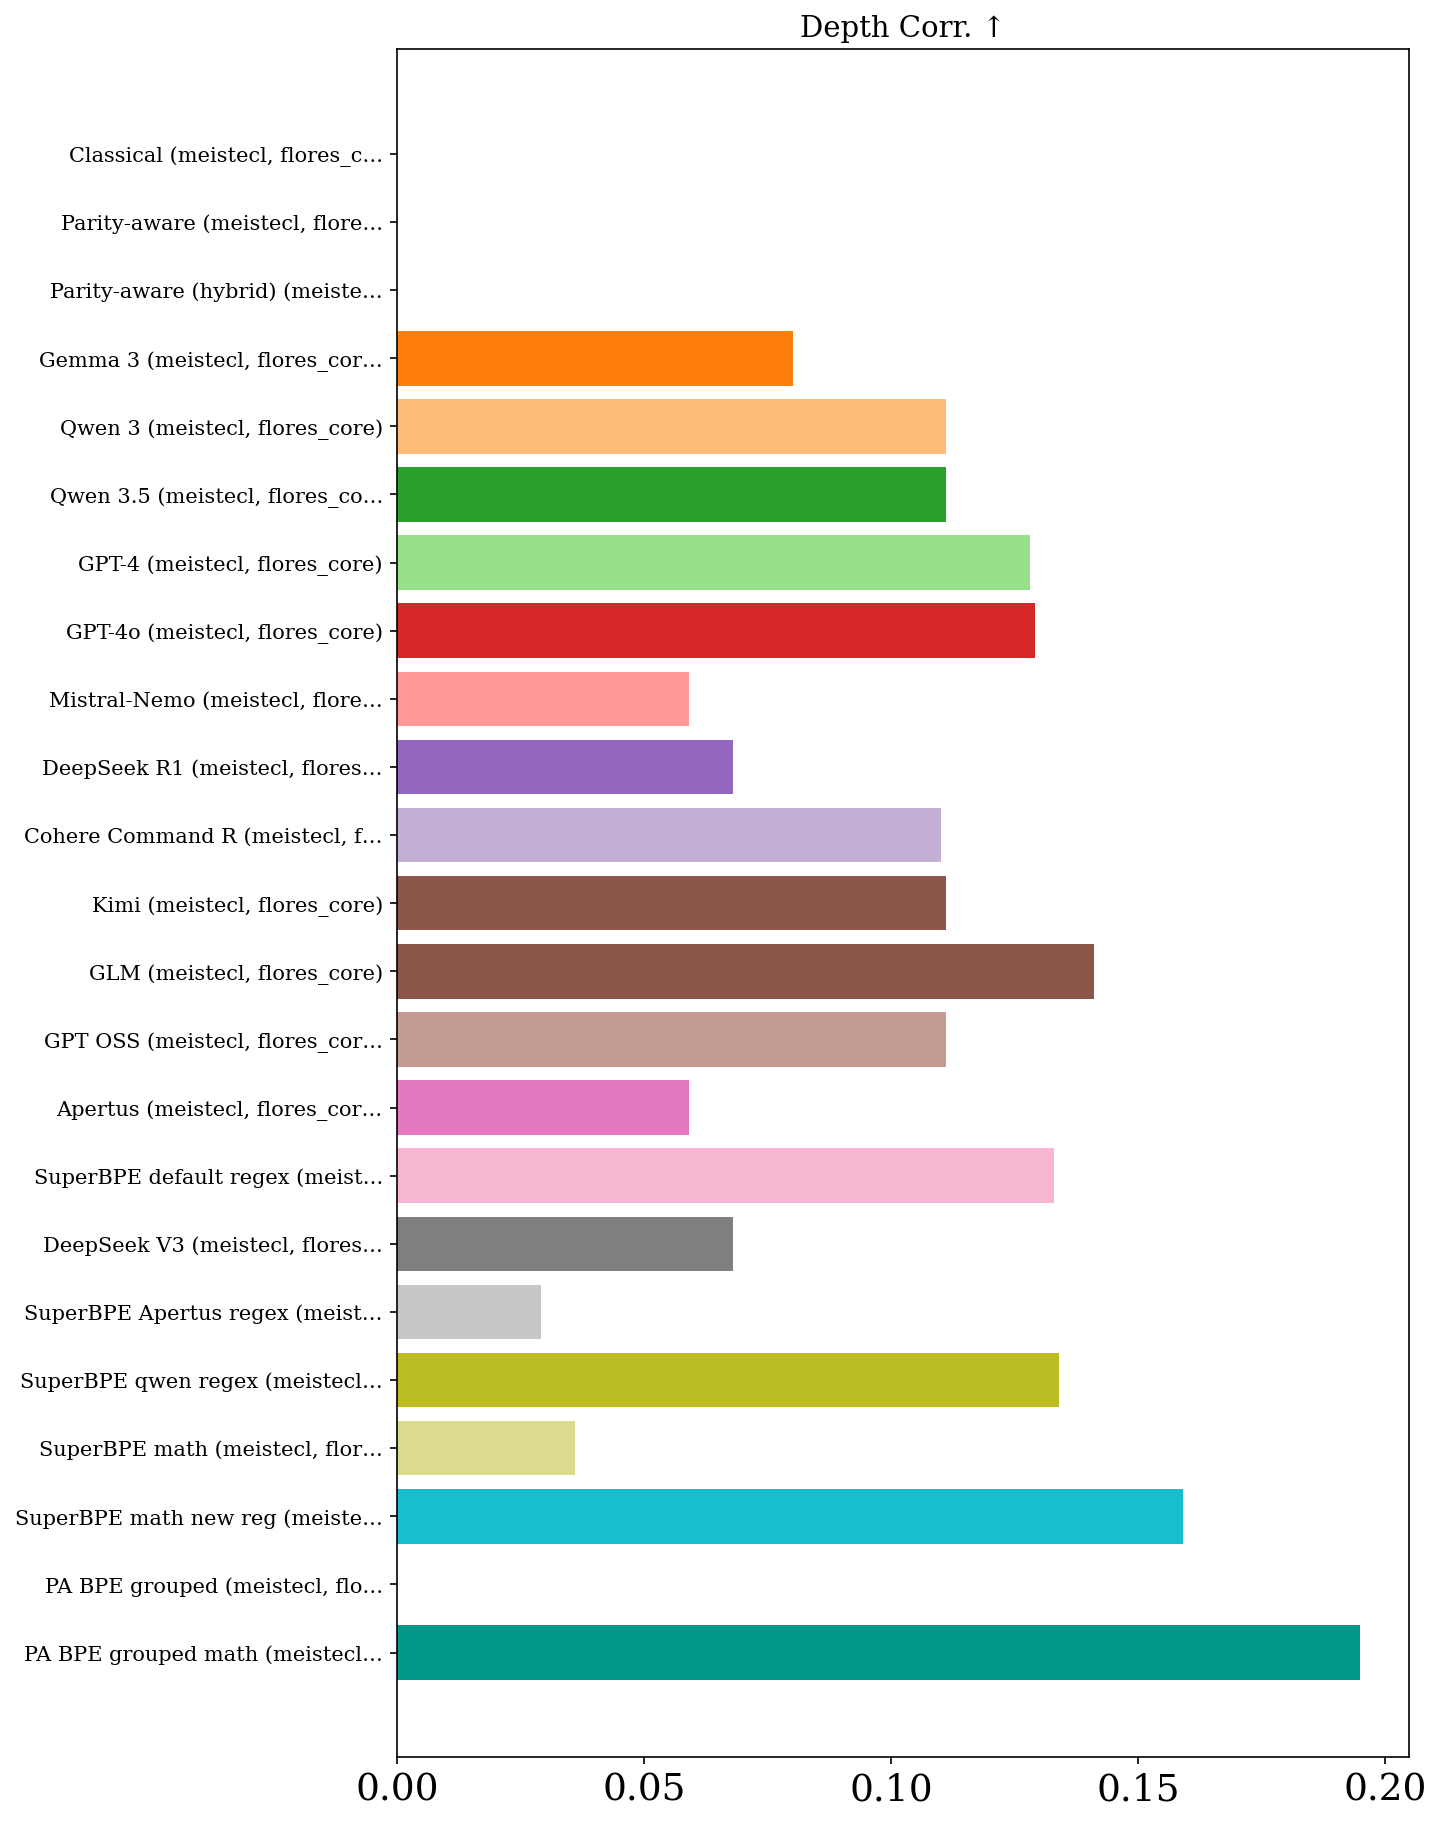
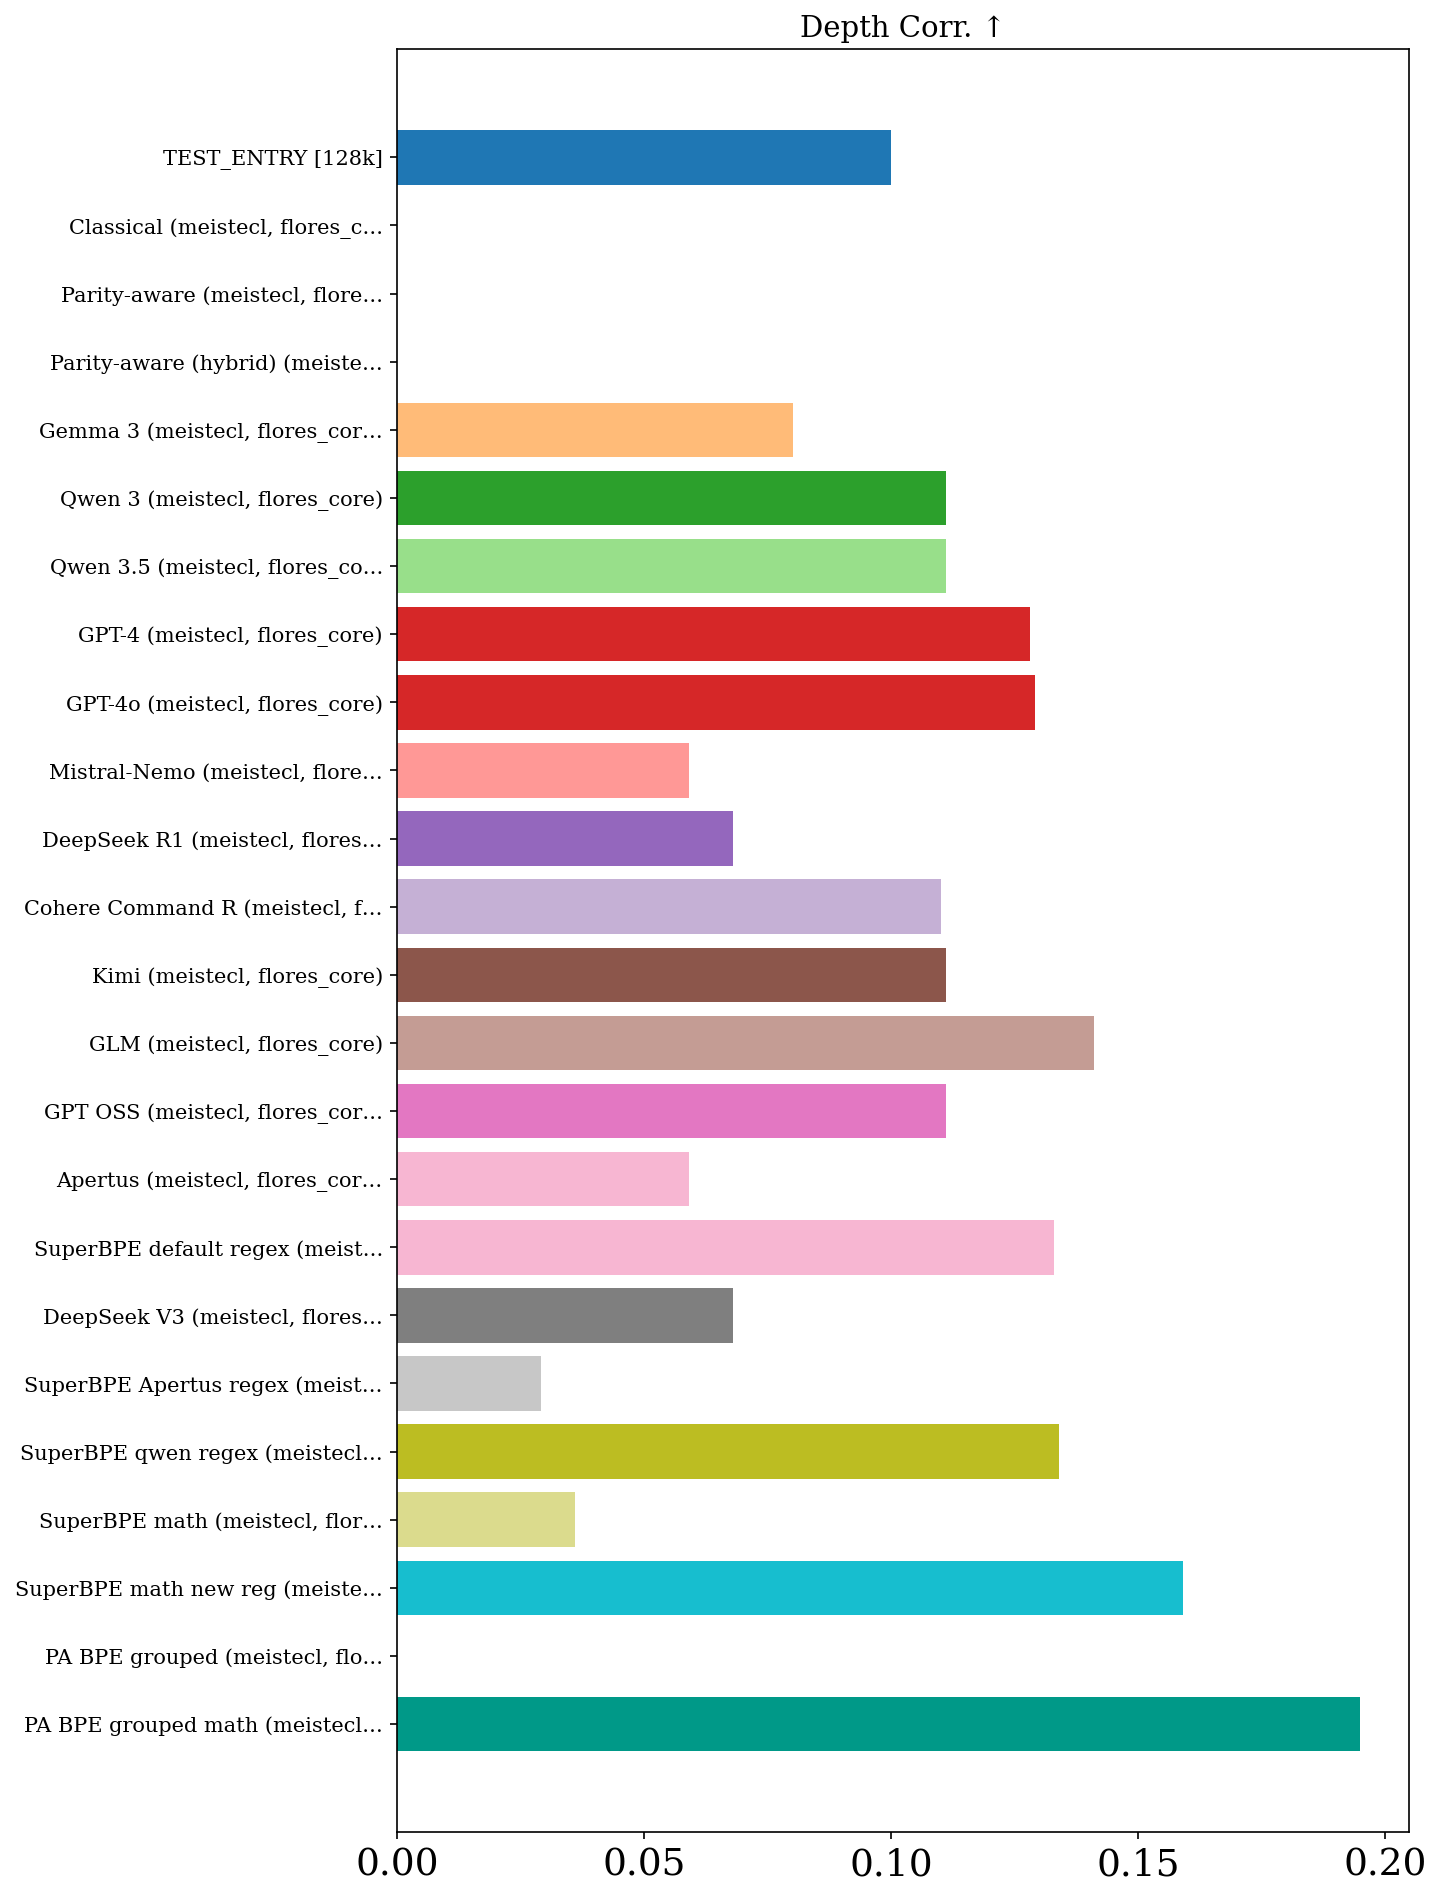
Test push: add TEST_ENTRY to flores_core_lines

diff --git a/RESULTS_flores_core_lines.md b/RESULTS_flores_core_lines.md
@@ -1,9 +1,10 @@
 # Tokenizer Evaluation Results
 
-_Last updated: 2026-03-09 10:23:39_
+_Last updated: 2026-03-12 08:54:28_
 
 | Tokenizer | Vocab Size | Fertility ↓ | Compression Rate ↑ | Vocab Util. ↑ | Avg Token Rank ↓ | Gini ↓ | 3-Digit Align. F1 ↑ | Op. Isolation ↑ | AST Align. ↑ | Ident. Frag. ↓ | Depth Corr. ↑ | Pat. Stability ↑ | Bound. Cross ↓ | Char Split ↓ | Languages | Dataset | User | Date |
 | --- | --- | --- | --- | --- | --- | --- | --- | --- | --- | --- | --- | --- | --- | --- | --- | --- | --- | --- |
+| TEST_ENTRY [128k] | 128,000 | 35.000 | 0.029 | 0.350 | 5000.0 | 0.050 | 0.500 | 0.500 | 0.500 | 0.050 | 0.100 | 0.800 | 0.0020 | 0.0050 | 13 | flores_core | meistecl | 2026-03-12 |
 | Classical (meistecl, flores_core) | 128,004 | 36.127 | 0.028 | 0.369 | 6524.2 | 0.049 | --- | 0.294 | 0.134 | 0.047 | 0.000 | **1.000** | 0.0033 | 0.0052 | 13 | flores_core | meistecl | 2026-03-09 |
 | Parity-aware (meistecl, flores_core) | 128,004 | 38.139 | 0.026 | 0.322 | 5367.5 | **0.012** | --- | 0.294 | 0.169 | 0.073 | 0.000 | 1.000 | 0.0037 | 0.0058 | 13 | flores_core | meistecl | 2026-03-09 |
 | Parity-aware (hybrid) (meistecl, flores_core) | 128,004 | 37.385 | 0.027 | 0.330 | 5693.5 | 0.028 | --- | 0.294 | 0.143 | 0.057 | 0.000 | 1.000 | 0.0036 | 0.0057 | 13 | flores_core | meistecl | 2026-03-09 |
